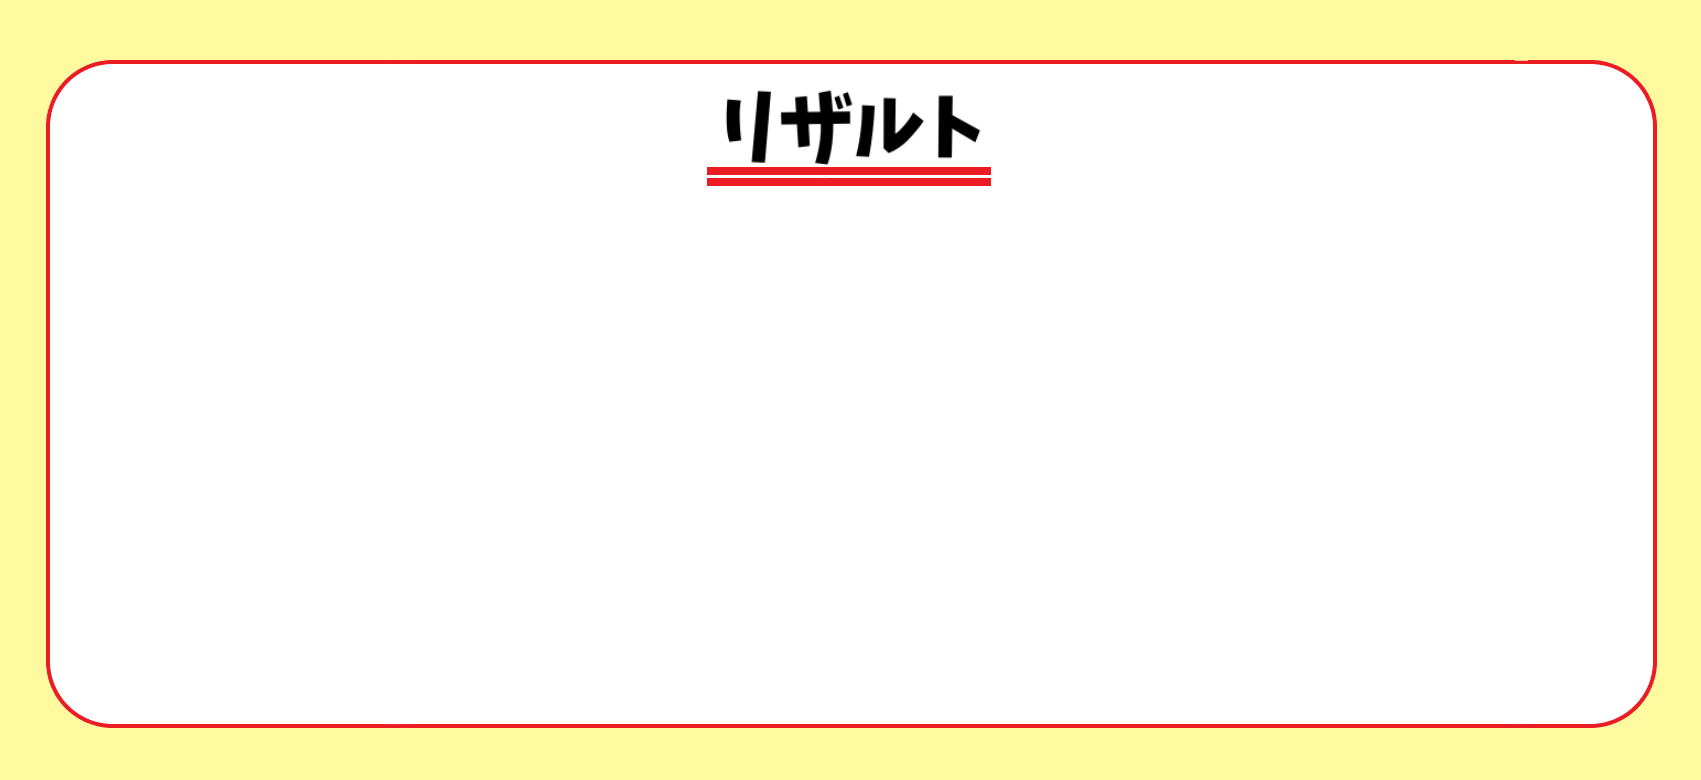
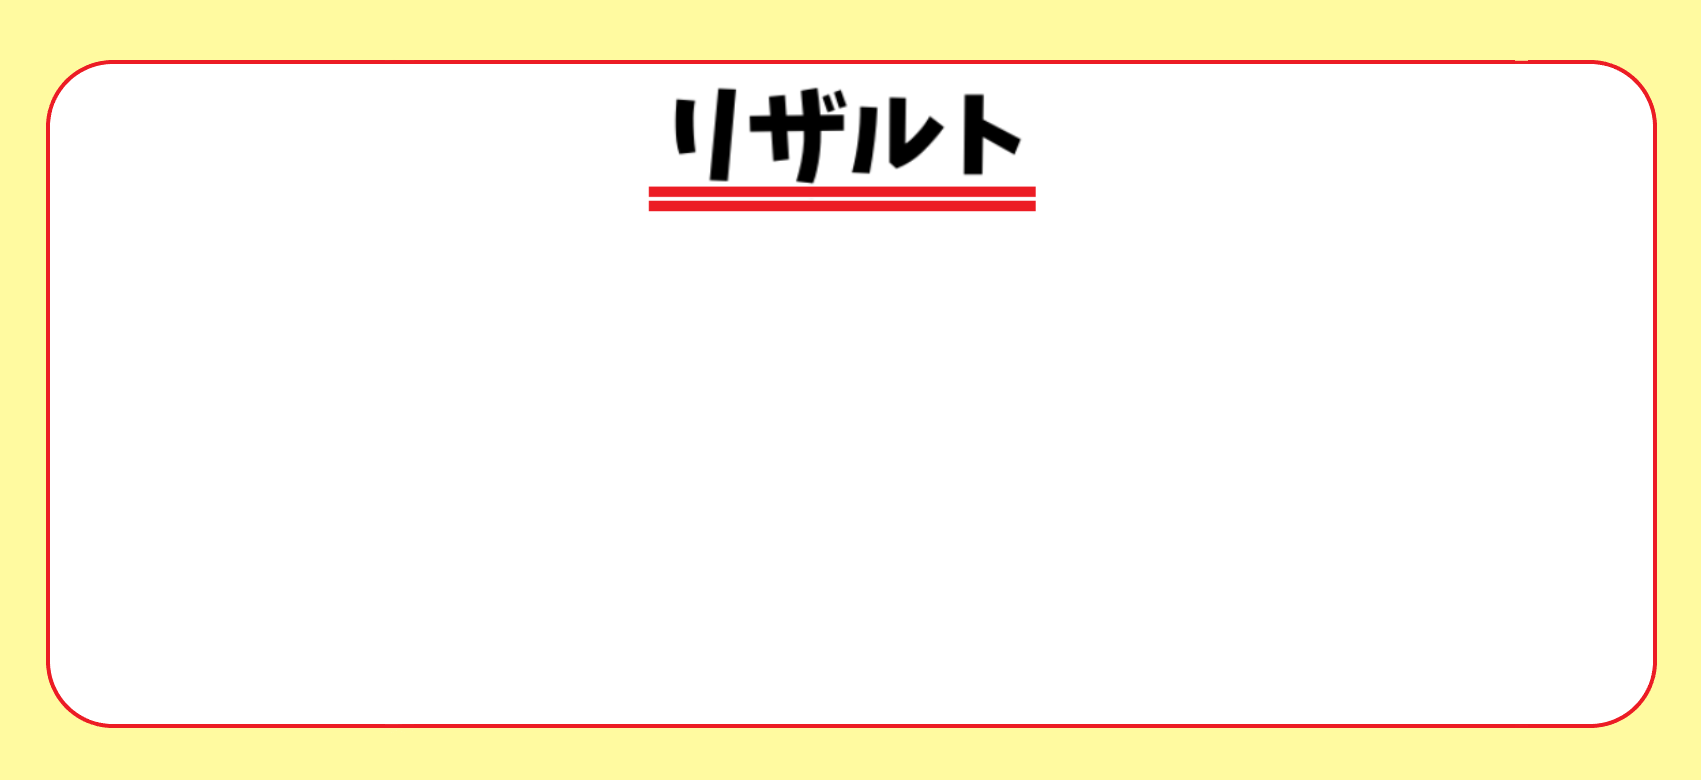
Rankingシステム変更・Resultの見た目変更

Changed region(s): [[0.3739, 0.0923, 0.6232, 0.2769]]

diff --git a/TGC_Game/TGC_Game/RankingManager.h b/TGC_Game/TGC_Game/RankingManager.h
@@ -4,6 +4,7 @@
 struct ScoreData {
     int correct;
     int sales;
+    int sum;
 };
 
 class RankingManager {
